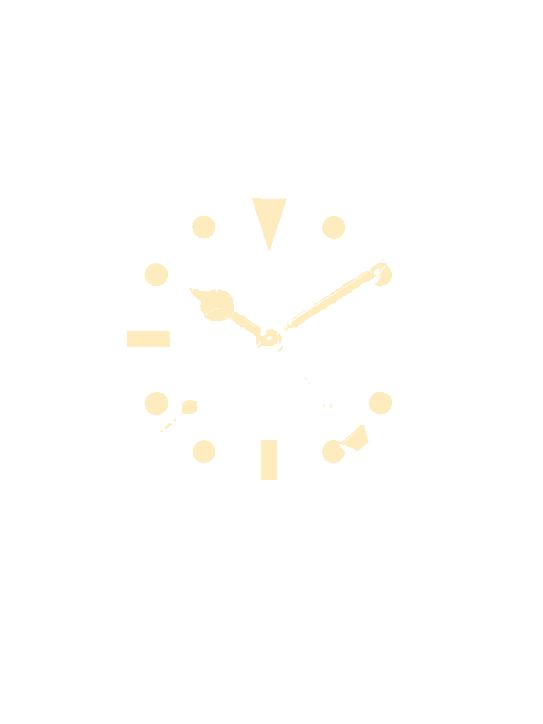
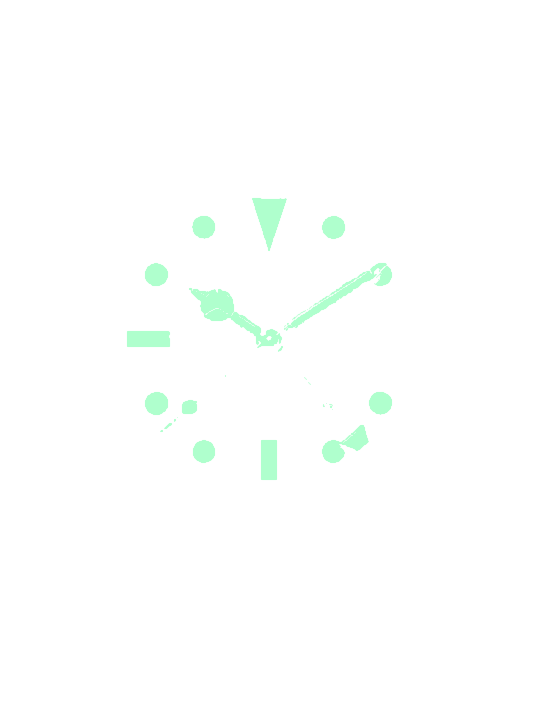
Leuchtmasse von GMT-Master 1675 und Submariner 5513 in Farbe und Stärke wie die Sea-Dweller 1665
Claude-Session: https://claude.ai/code/session_01Wip4uNf6vaKskYPqRYzAdm

diff --git a/index.html b/index.html
@@ -1236,9 +1236,9 @@ const BRAND_STYLE = {
   "Laco": { s: 6, w: 700, ls: 1.6, o: "" }
 };
 
-const IMGV = "2026112658";
+const IMGV = "2026112659";
 // Leuchtstärke einzelner Bilder (Deckkraft der Leuchtebene nachts), z. B. sehr alte Tritium-Leuchtmasse
-const LUME_OP = { "rolex-gmt-master-1675-pepsi.jpg": .34, "rolex-submariner-5513.jpg": .34, "patek-philippe-nautilus-3700-1a.jpg": .34, "rolex-air-king-5500.jpg": .34 }; // bei neuen Bildern hochzählen (Cache)
+const LUME_OP = { "patek-philippe-nautilus-3700-1a.jpg": .34, "rolex-air-king-5500.jpg": .34 }; // bei neuen Bildern hochzählen (Cache)
 function drawWatch(v = {}, e = null) {
   if (v.img) {
     const base = `<img class="watch wimg" src="${v.img}?v=${IMGV}" alt="${esc(((e && (e.brand + " " + e.t)) || "Uhr"))}" loading="lazy">`;
